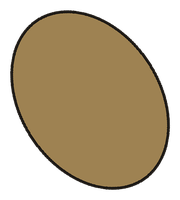
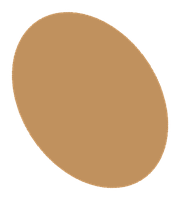
Speed up sprig morph, drop olive stroke, warm the hero wordmark.

diff --git a/js/main.js b/js/main.js
@@ -39,12 +39,12 @@
     const progress = max > 0 ? window.scrollY / max : 0;
     document.documentElement.style.setProperty("--scroll", String(progress));
 
-    // Sprig → olive late in the hero, but while the brand is still on screen.
+    // Sprig → olive: short, late window while the brand is still visible.
     let heroExit = 0;
     if (hero) {
       const rect = hero.getBoundingClientRect();
-      const start = rect.height * 0.4;
-      const end = rect.height * 0.62;
+      const start = rect.height * 0.48;
+      const end = rect.height * 0.56;
       heroExit = Math.min(
         1,
         Math.max(0, (-rect.top - start) / Math.max(end - start, 1))

diff --git a/css/styles.css b/css/styles.css
@@ -558,7 +558,9 @@ html.js .logo-img-light {
   height: auto;
   display: block;
   margin: 0;
-  filter: drop-shadow(0 2px 28px rgba(0, 0, 0, 0.28));
+  /* Soft warm ivory — not full gold */
+  filter: drop-shadow(0 2px 28px rgba(0, 0, 0, 0.28))
+    sepia(0.28) saturate(0.55) brightness(1.06);
 }
 
 .hero-place {
